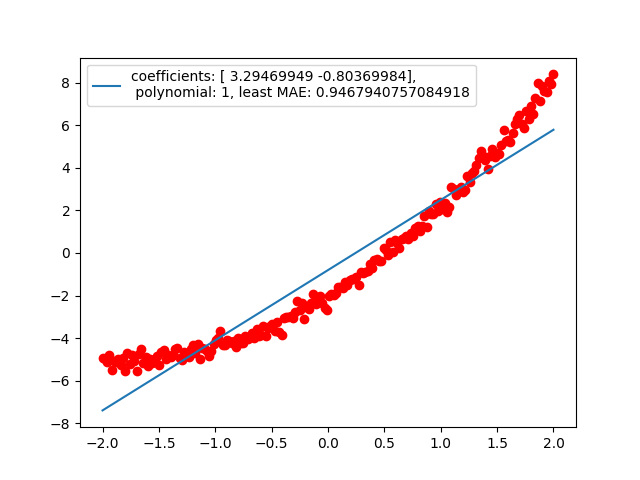
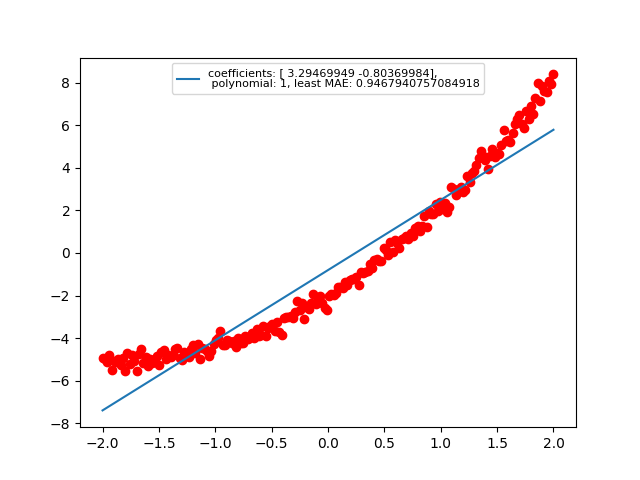
changed the way the best coefficient is selected - updated graphs

Changed region(s): [[0.125, 0.125, 0.75, 0.2188]]

diff --git a/vsc-03/polynomial_fit.py b/vsc-03/polynomial_fit.py
@@ -53,11 +53,12 @@ best_coefficient_mae = np.array([])
 polynomial_mae = 0
 for d in range(1,20):
     mae, coefficient = create_matrix(x, d)
+    print(mae)
     if d == 1:
         least_error_mae = mae
         best_coefficient_mae = coefficient
         polynomial_mae = d
-    if mae < least_error_mae:
+    if mae < least_error_mae-0.5:
         best_coefficient_mae = coefficient
         polynomial_mae = d
         least_error_mae = mae
